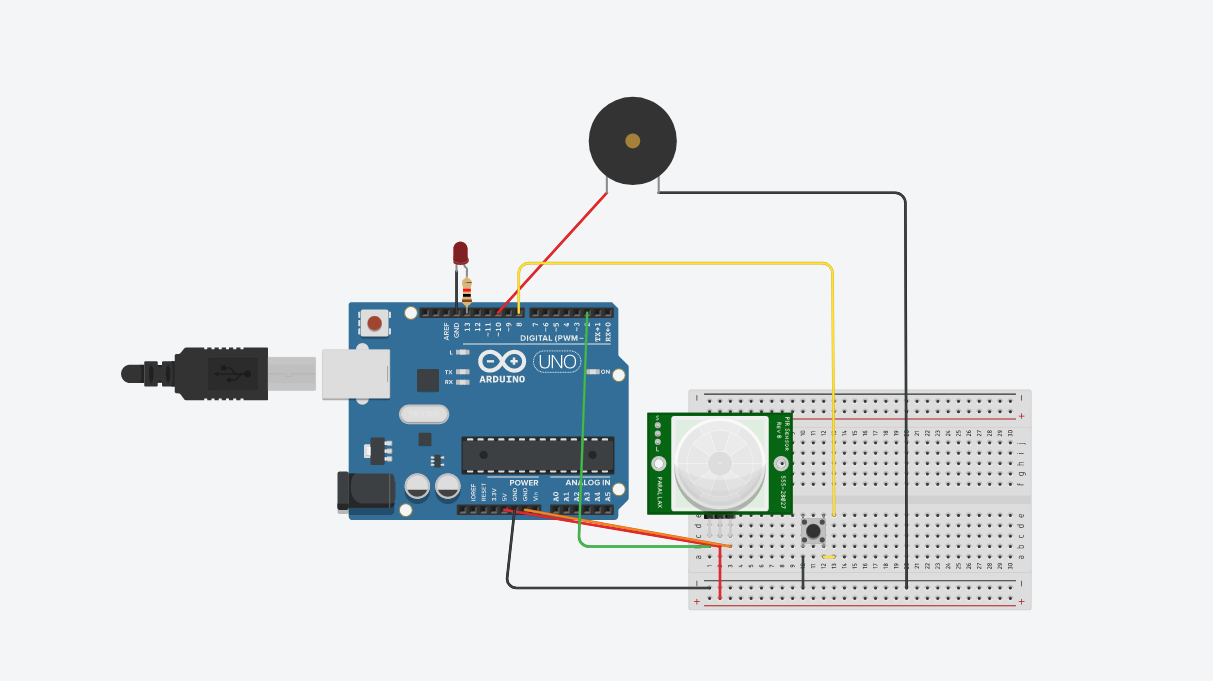
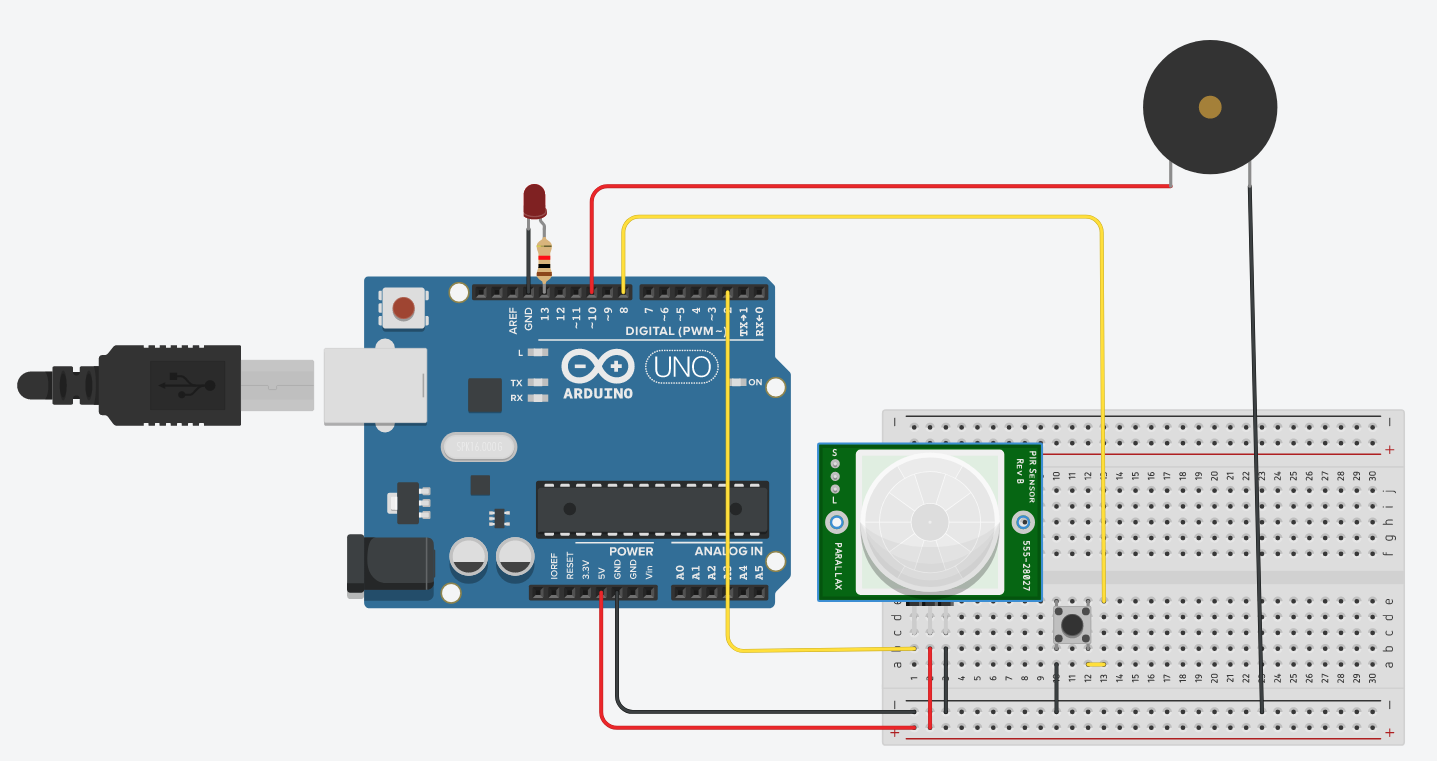
add picture

Changed region(s): [[0.0, 0.0308, 0.9761, 0.9868]]

diff --git a/README.md b/README.md
@@ -8,5 +8,7 @@ Materiais utilizados:
 - 1 buzzer
 - 1 resistores de 1KΩ
 - 1 botão push-button
+- 1 led
 
-![[project.png]]
+![img](https://github.com/gabrieImoreira/presence-sensor/blob/main/archives/project.png)
+
